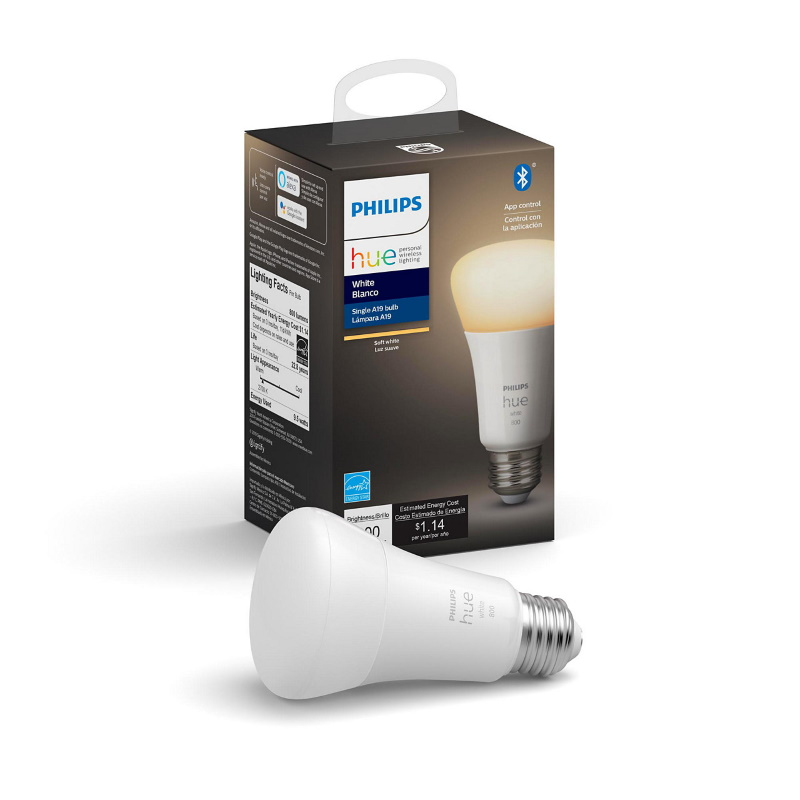
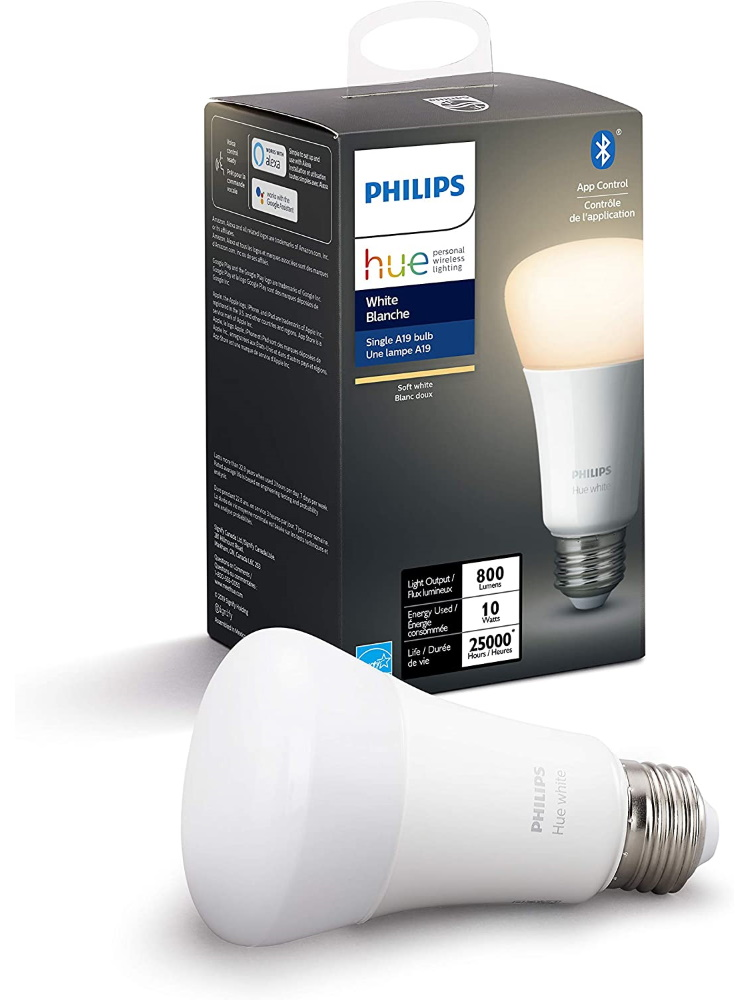
new devices

diff --git a/_zigbee/Philips_LWA002.md b/_zigbee/Philips_LWA002.md
@@ -1,16 +1,15 @@
 ---
 model: LWA002
 vendor: Philips
-title: Hue White Ambiance A19 E26 Bluetooth
+title: Hue White A19 E26 Bluetooth
 category: light
 supports: on/off, brightness
-image: /assets/images/devices/Philips_LWA002.jpg
 zigbeemodel: ['LWA002']
 compatible: [z2m,iob]
-mlink: https://www2.meethue.com/en-us/p/hue-white-1-pack-e26/046677476861
-link: https://www.amazon.com/dp/B07QV9XLTK/
-link2: https://www.amazon.ca/Bluetooth-Zigbee-compatible-Optional-activated/dp/B07RRKHKD1
-link3: 
+z2m: 9290018215
+mlink: https://www2.meethue.com/en-ca/p/hue-white-1-pack-e26/046677476861
+link: https://www.amazon.ca/Bluetooth-Zigbee-compatible-Optional-activated/dp/B07RRKHKD1
+link2: 
 EAN: 
   - 476879
   - 9290018215

diff --git a/_zigbee/Muller_Licht_404011.md b/_zigbee/Muller_Licht_404011.md
@@ -1,4 +1,5 @@
 ---
+date_added: 2020-06-19
 model: 404011
 vendor: Müller Licht 
 title: Tint Remote Control
@@ -7,7 +8,8 @@ supports: action, brightness
 action: on, off, toggle, brightness up/down click/hold/release, move to colortemp, move to color, scene
 image: /assets/images/devices/Muller_Licht_404011.jpg
 zigbeemodel: ['ZBT-Remote-ALL-RGBW']
-compatible: [z2m,iob]
+compatible: [z2m,iob,deconz]
+deconz: 1209
 mlink: https://www.mueller-licht.de/_tool-gesamt_/index.php?Artikel=404011&L=en
 link: https://www.amazon.de/M%C3%9CLLER-LICHT-Fernbedienung-vorprogrammierten-individuelles-Stimmungslicht/dp/B07FMCLC2N
 link2: https://www.amazon.co.uk/M%C3%BCller-Licht-Remote-Control-Plastic-White/dp/B07FMCLC2N

diff --git a/_zigbee/Sengled_E1D-G73.md b/_zigbee/Sengled_E1D-G73.md
@@ -1,13 +1,15 @@
 ---
-date_added: 2020-01-12
-model: E1D-G73WNA
+date_added: 2020-06-19
+model: E1D-G73
 vendor: Sengled
 title: Smart Door & Window Sensor
 category: sensor
 supports: contact
 image: /assets/images/devices/Sengled_E1D-G73WNA.jpg
 zigbeemodel: ['E1D-G73']
-compatible: [z2m]
+compatible: [z2m,deconz]
+deconz: 2870
+z2m: E1D-G73WNA
 mlink: https://us.sengled.com/products/sengled-smart-window-and-door-sensor
 link: https://www.amazon.com/Sengled-Required-Compatible-Assistant-SmartThings/dp/B07QHDXQXJ
 link2: https://www.amazon.co.uk/Sengled-E1D-G73-Smart-Sensor-White/dp/B07QHDXQXJ

diff --git a/_zigbee/Legrand_412015.md b/_zigbee/Legrand_412015.md
@@ -1,0 +1,13 @@
+---
+date_added: 2020-06-19
+model: '412015'
+vendor: Legrand
+title: DIN Power Consumption Module 230V 63A
+category: switch
+supports: on/off, power meter, consumption alerts
+zigbeemodel: [' DIN power consumption module']
+compatible: [z2m]
+mlink: https://www.legrand.fr/pro/catalogue/43081-compteur-denergie-connecte/compteur-denergie-connecte-pour-installation-with-netatmo-livre-avec-1-transformateur-de-courant-ferme-63a-1-module
+link: https://www.electro-domotique.fr/accueil/1980-module-de-mesure-modulaire-230v-with-netatmo-legrand-412015-3414971510180.html
+link2: 
+---

diff --git a/_zigbee/Philips_5062131P7.md b/_zigbee/Philips_5062131P7.md
@@ -1,0 +1,18 @@
+---
+date_added: 2020-06-19
+model: 5062131P7
+vendor: Philips
+title: Hue Argenta Single Spotlight
+category: light
+supports: on/off, brightness, colortemp, colorxy, ota
+zigbeemodel: ['5062231P7']
+compatible: [z2m,iob]
+mlink: https://www2.meethue.com/en-gb/p/hue-white-and-colour-ambience-argenta-single-spotlight/5062131P7
+link: https://www.amazon.co.uk/Philips-Spotlight-Aluminium-6-5-White/dp/B07SPHG7JC/
+link2: https://www.amazon.de/dp/B07SPHG7JC/
+link3: 
+EAN: 
+  - 50621/31/P7
+  - 8718696171578
+  - 915005761901
+---

diff --git a/_zigbee/Xiaomi_LLKZMK11LM.md b/_zigbee/Xiaomi_LLKZMK11LM.md
@@ -7,6 +7,7 @@ supports: dual_on_off, power measurement, interlock
 image: /assets/images/devices/LLKZMK11LM.jpg
 zigbeemodel: ['lumi.relay.c2acn01']
 compatible: [z2m,iob,zha,deconz]
+deconz: 2909
 mlink: https://www.alibaba.com/product-detail/New-Arrive-Xiaomi-Aqara-2-way_62132487106.html
 link: https://www.aliexpress.com/af/LLKZMK11LM-.html
 link2: https://www.banggood.com/Aqara-LLKZMK11LM-Two-way-Control-Module-Wireless-Relay-Controller-2-Channels-Work-For-Mijia-APP-Home-Kit-Control-Module-from-xiaomi-youpin-p-1441658.html

diff --git a/_zigbee/Centralite_3315-C.md b/_zigbee/Centralite_3315-C.md
@@ -6,7 +6,8 @@ category: sensor
 supports: water leak, temperature, batterypct
 image: /assets/images/devices/centralite_3315-C.png
 zigbeemodel: ['3315-C', '3315-G']
-compatible: [z2m, zha]
+compatible: [z2m,zha,deconz]
+deconz: 2944
 mlink: https://www.smartthings.com/products/centralite-water-sensor
 link: https://www.amazon.com/Centralite-Sensor-SmartThings-ZigBee-platforms/dp/B072DYHPY7
 link2: https://www.amazon.co.uk/Samsung-SmartThings-F-WTR-UK-V2-Moisture-Sensor/dp/B01LWYF4LD

diff --git a/_zigbee/Stelpro_STZB402.md b/_zigbee/Stelpro_STZB402.md
@@ -7,7 +7,8 @@ category: hvac
 supports: temperature, occupied heating, keypad lockout
 image: /assets/images/devices/Stelpro_STZB402.jpg
 zigbeemodel: ['STZB402+', 'STZB402']
-compatible: [z2m]
+compatible: [z2m,deconz]
+deconz: 2945
 mlink: https://www.stelpro.com/en-CA/4000-w-ki-thermostat-smart-home-zigbee
 link: https://www.amazon.com/StelPro-STZB402WB-4000W-Zigbee-Thermostat/dp/B01M645P7H
 link2: https://www.amazon.ca/StelPro-STZB402WB-4000W-Zigbee-Thermostat/dp/B01M645P7H

diff --git a/_zigbee/Philips_5062331P7.md b/_zigbee/Philips_5062331P7.md
@@ -1,0 +1,18 @@
+---
+date_added: 2020-06-19
+model: 5062331P7
+vendor: Philips
+title: Hue Argenta Triple Spotlight
+category: light
+supports: on/off, brightness, colortemp, colorxy, ota
+zigbeemodel: ['5062331P7']
+compatible: [z2m,iob]
+mlink: https://www2.meethue.com/en-gb/p/hue-white-and-colour-ambience-argenta-triple-spotlight/5062331P7
+link: https://www.amazon.de/dp/B07SPHG7JC/
+link2: 
+link3: 
+EAN: 
+  - 50623/31/P7
+  - 8718696171592
+  - 915005762101
+---

diff --git a/_zigbee/Gledopto_GL-D-004Z.md b/_zigbee/Gledopto_GL-D-004Z.md
@@ -1,0 +1,15 @@
+---
+date_added: 2020-06-19
+model: GL-D-004Z
+vendor: Gledopto
+title: 9W Downlight Dual White and Color 
+category: light
+supports: on/off, brightness, colortemp, colorxy
+zigbeemodel: ['GL-D-004Z']
+compatible: [z2m]
+mlink: http://www.gledopto.com/h-col-328.html
+link: https://www.aliexpress.com/item/32961111311.html
+link2: https://www.amazon.com/GLEDOPTO-Downlight-Recessed-Dimmable-Compatible/dp/B07R39RVY6/
+link3: 
+---
+

diff --git a/_zigbee/Immax_07008L.md b/_zigbee/Immax_07008L.md
@@ -1,0 +1,14 @@
+---
+date_added: 2020-06-19
+model: 07008L
+vendor: Immax
+title: Neo RGB+CCT LED Strip 2m, color, dimmable
+category: light
+supports: on/off, brightness, colortemp, colorxy
+zigbeemodel: ['IM-Z3.0-RGBCCT']
+compatible: [z2m]
+mlink: https://www.immaxneo.cz/en/products/immax-neo-smart-led-stripe-2m-color-dimmable-zigbee-3-0/
+link: https://www.alzashop.com/immax-neo-rgb-cct-led-strip-2m-driver-d5469035.htm
+link2: 
+link3: 
+---

diff --git a/_zigbee/EcoSmart_A9BR3065WESDZ02.md b/_zigbee/EcoSmart_A9BR3065WESDZ02.md
@@ -5,9 +5,8 @@ vendor: EcoSmart
 title: BR30 Dimmable Tunable White Bulb
 category: light
 supports: on/off, brightness, colortemp
-image: /assets/images/devices/EcoSmart_A9BR3065WESDZ02.jpg
 zigbeemodel: ['Ecosmart-ZBT-BR30-CCT-Bulb']
-compatible: [zha]
+compatible: [zha,z2m]
 mlink: 
 link: https://www.homedepot.com/p/EcoSmart-65-Watt-Equivalent-BR30-Dimmable-Smart-Wireless-LED-Light-Bulb-Tunable-White-2-Pack-A9BR3065WESDZ02/309683614
 link2: 
